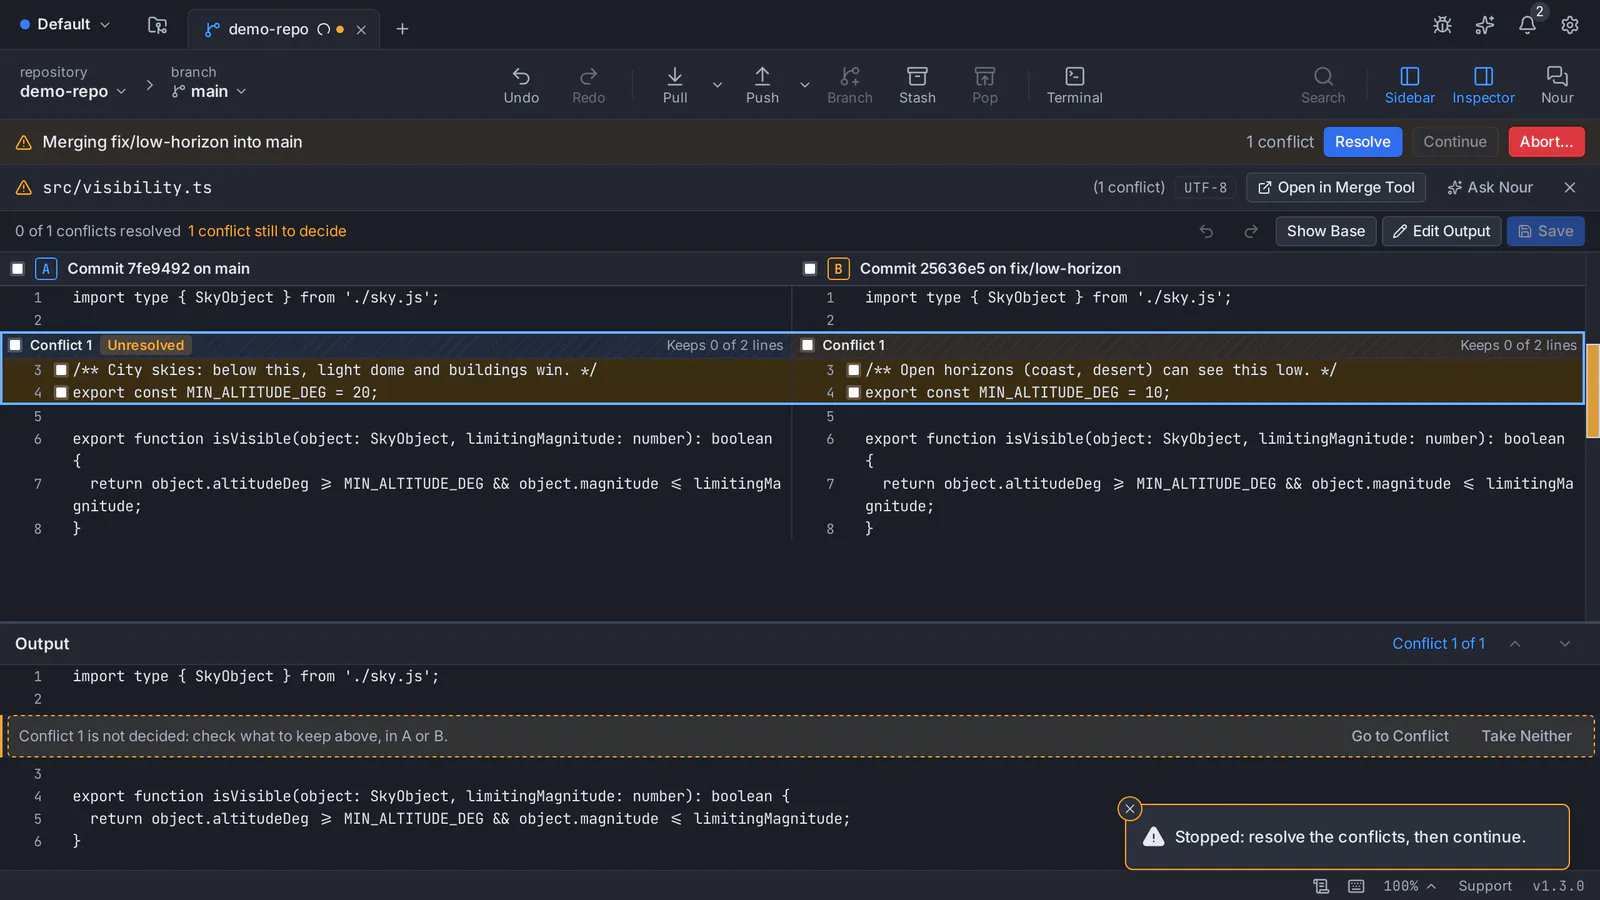
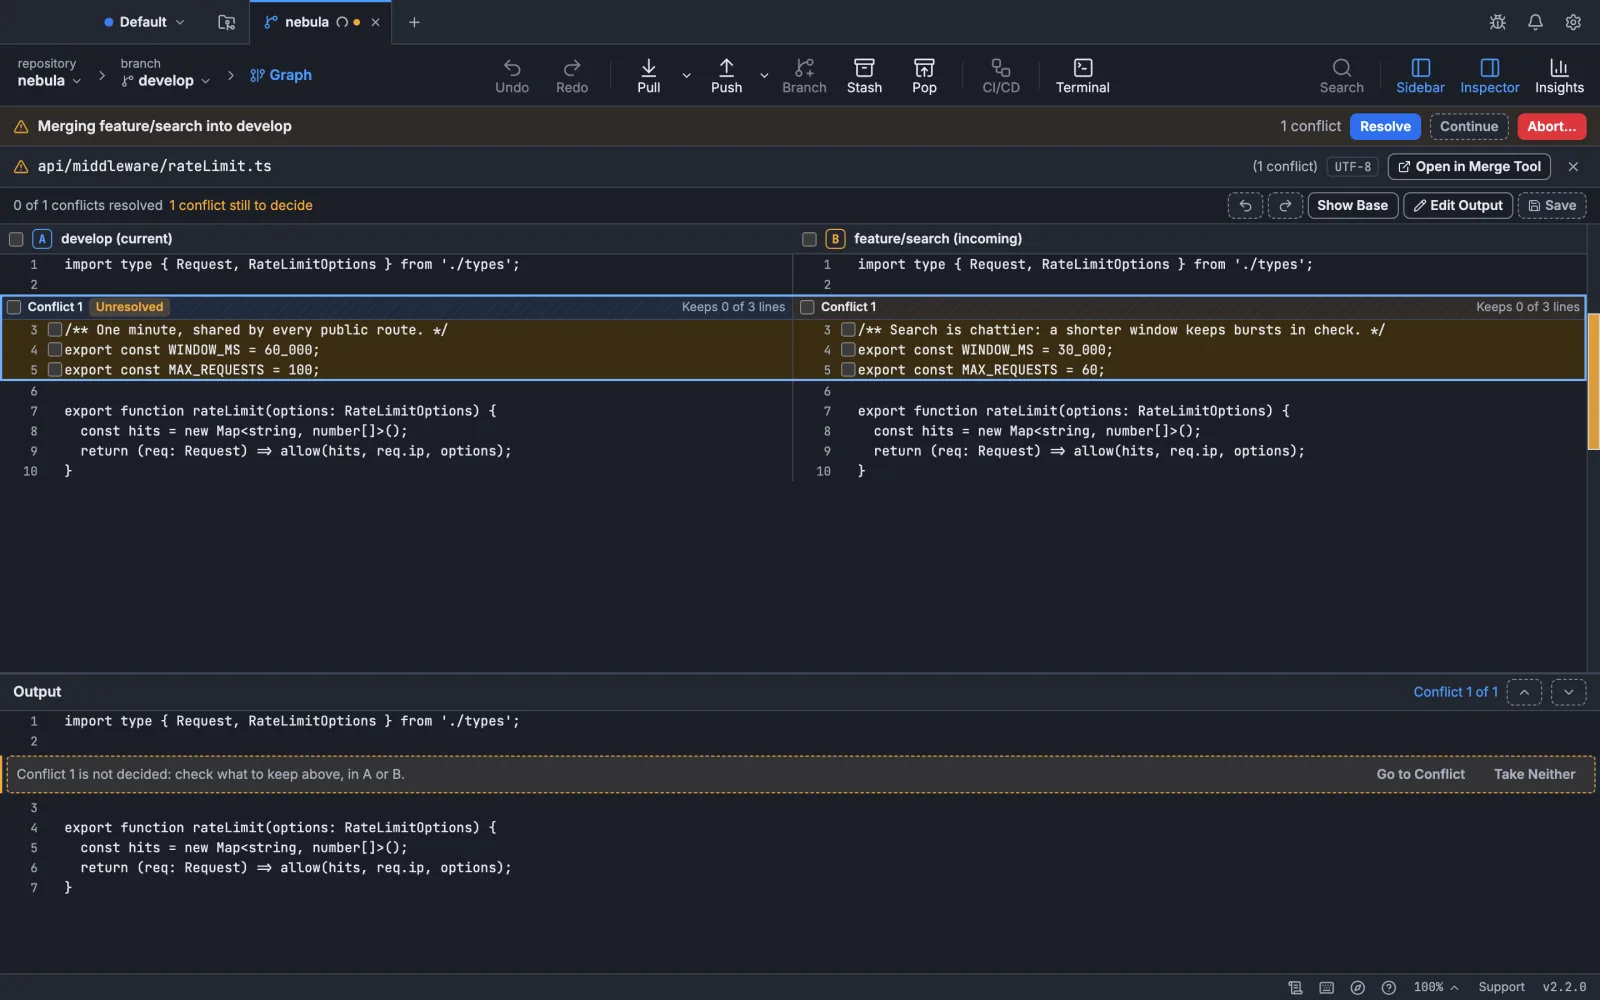
docs(readme): fresh conflict, pull request and Repo Insights screenshots
Replace the conflict editor and pull request captures with ones from the
v2.2.0 interface and add a Repo Insights report to its section.

diff --git a/README.md b/README.md
@@ -203,7 +203,7 @@ GitTree covers the commands developers use every day, plus the advanced ones you
 - **Three-way conflict editor**: both sides next to each other and the merged output below; take a side line by line, combine both or edit the result, then mark the file resolved.
 
 <p align="center">
-  <img src=".github/assets/screenshots/conflict.webp" alt="The three-way conflict editor: the two sides of a conflict next to each other with per-line checkboxes, and the merged output below" width="85%">
+  <img src=".github/assets/screenshots/conflict.webp" alt="Merging feature/search into develop stopped on a conflict in api/middleware/rateLimit.ts: the three-way editor shows develop and feature/search side by side with per-line checkboxes, and the merged output below" width="85%">
 </p>
 
 <table>
@@ -254,7 +254,7 @@ GitTree covers the commands developers use every day, plus the advanced ones you
 - **Browse, clone and publish** repositories from your accounts without copying a URL.
 
 <p align="center">
-  <img src=".github/assets/screenshots/pull-request.webp" alt="A pull request opened inside GitTree: its files as a tree, a diff of the changed file, and a review comment being added to a line" width="85%">
+  <img src=".github/assets/screenshots/pull-request.webp" alt="A GitHub pull request opened inside GitTree: its title, passing checks, approvals, reviewers and labels, the description and the conversation, with Edit, Review and Merge" width="85%">
 </p>
 
 <p align="center">
@@ -277,6 +277,11 @@ GitTree covers the commands developers use every day, plus the advanced ones you
 - **See how a repository moves**: commits, lines and files changed over time, a weekly chart and contributors by name.
 - **Worked out on your computer** from the repository's local history: nothing is uploaded.
 - **Honest numbers**: the report says what it leaves out, such as a shallow clone's missing history.
+- **Its own window**: open Insights next to your work, keep earlier reports, and export a report as CSV or JSON.
+
+<p align="center">
+  <img src=".github/assets/screenshots/insights.webp" alt="A Repo Insights report for the nebula repository from June 8 to August 31, 2026: commits, merge commits, lines added and deleted, files changed, active person-days and contributors, counted on this computer with nothing uploaded" width="85%">
+</p>
 
 ### Speed and productivity
 
